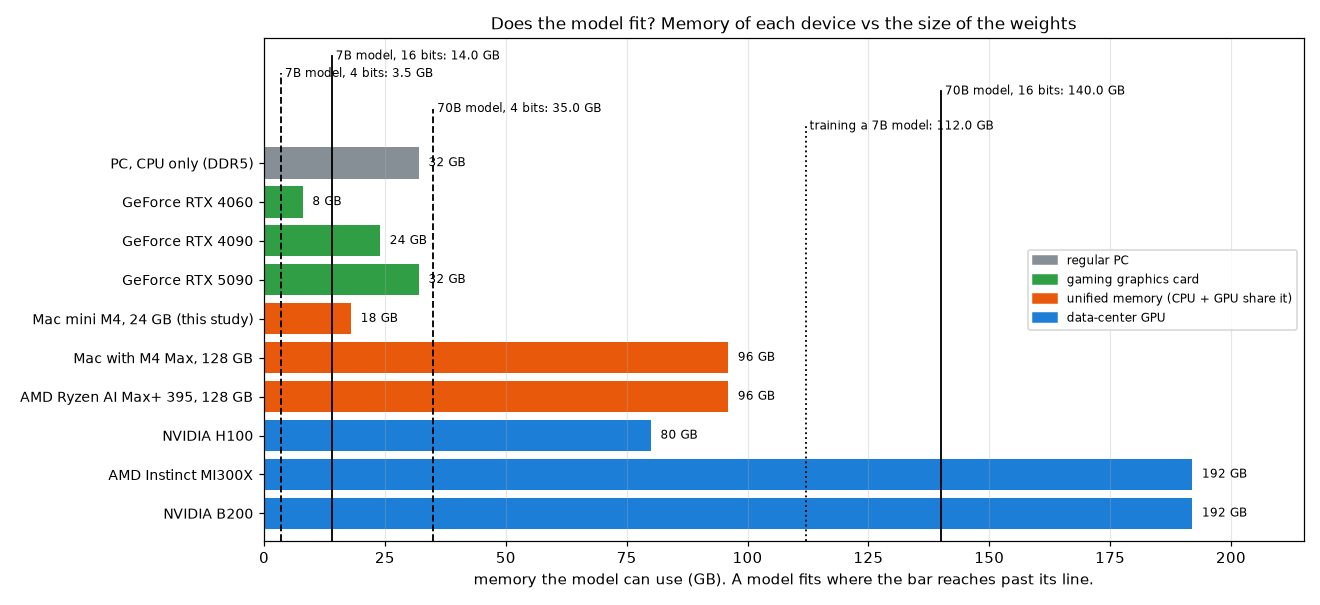
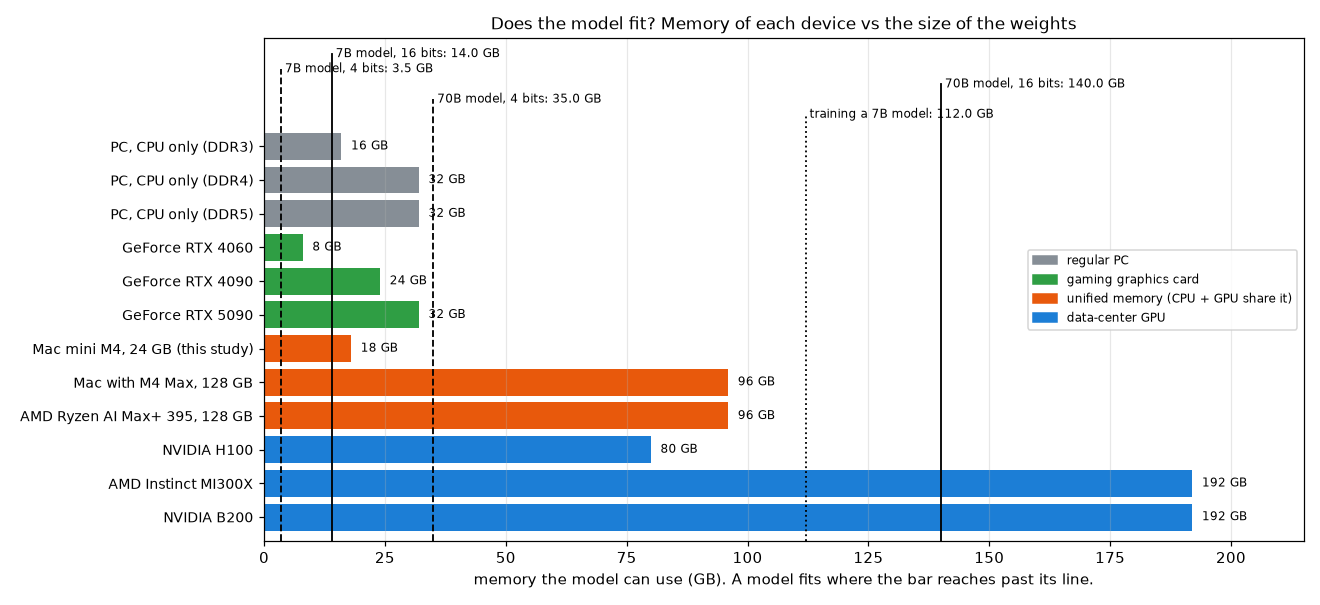
Hardware deep dive: regular PCs with DDR3 and DDR4 too

diff --git a/deep-dives/hardware/memory.py b/deep-dives/hardware/memory.py
@@ -31,6 +31,8 @@ os.makedirs(OUTPUT, exist_ok=True)
 
 # name, kind, memory the model can use (GB), memory bandwidth (GB/s). Sources: README, section 2.
 DEVICES = [
+    ("PC, CPU only (DDR3)", "pc", 16, 26),
+    ("PC, CPU only (DDR4)", "pc", 32, 51),
     ("PC, CPU only (DDR5)", "pc", 32, 90),
     ("GeForce RTX 4060", "gaming", 8, 272),
     ("GeForce RTX 4090", "gaming", 24, 1008),

diff --git a/deep-dives/hardware/README.es.md b/deep-dives/hardware/README.es.md
@@ -24,7 +24,7 @@ Esta página parte de [¿Por qué GPU?](../gpu/README.es.md). Las especificacion
 
 | Tipo | Ejemplos | Memoria que puede usar el modelo | Velocidad de la memoria | Bueno para |
 |---|---|---|---|---|
-| **PC normal, solo CPU** | Intel Core, AMD Ryzen, con RAM DDR5 | la RAM que tenga (32 GB es común) | ~80-100 GB/s | modelos pequeños, y todo lo que no sea una red grande |
+| **PC normal, solo CPU** | Intel Core, AMD Ryzen, con RAM DDR3, DDR4 o DDR5 | la RAM que tenga (8-16 GB en PC más antiguas, 32 GB es común hoy) | ~26 GB/s (DDR3) · ~51 GB/s (DDR4) · ~80-100 GB/s (DDR5) | modelos pequeños, y todo lo que no sea una red grande |
 | **Tarjeta gráfica para videojuegos** | NVIDIA GeForce RTX 4060 / 4090 / 5090, AMD Radeon | 8 / 24 / 32 GB en la tarjeta | 272 / 1 008 / 1 792 GB/s | rápida, siempre que el modelo quepa en la memoria de la tarjeta |
 | **Memoria unificada** (CPU y GPU comparten una sola reserva) | chips Apple de la serie M, AMD Ryzen AI Max | hasta ~75 % del total en una Mac, por defecto; hasta 96 GB en el Ryzen AI Max+ 395 | 120 GB/s (M4) a 546 GB/s (M4 Max); 256 GB/s (Ryzen AI Max+ 395) | modelos grandes en una sola máquina, más despacio que una tarjeta gráfica grande |
 | **GPU de centro de datos** | NVIDIA H100 / B200, AMD Instinct MI300X | 80 / 192 / 192 GB | 3 350 / 8 000 / 5 300 GB/s | entrenar y servir modelos grandes, en grupos de miles |
@@ -59,7 +59,9 @@ tokens por segundo  ≤  velocidad de la memoria  ÷  tamaño del modelo
 
 | Dispositivo | Modelo de 7B, 4 bits (3.5 GB) | Modelo de 70B, 4 bits (35 GB) |
 |---|---|---|
-| PC normal, solo CPU | 26 tokens/s como máximo | no cabe en 32 GB |
+| PC normal, solo CPU, DDR3 | 7 tokens/s como máximo | no cabe en 16 GB |
+| PC normal, solo CPU, DDR4 | 15 | no cabe en 32 GB |
+| PC normal, solo CPU, DDR5 | 26 | no cabe en 32 GB |
 | GeForce RTX 4090 | 288 | no cabe |
 | Mac mini M4 (este estudio) | 34 | no cabe |
 | Mac con M4 Max, 128 GB | 156 | 16 |
@@ -71,7 +73,7 @@ Estos son techos; las velocidades reales son menores. Las pruebas publicadas de 
 
 Por eso importa el **tipo de memoria**:
 
-- **DDR5 / LPDDR5** (RAM normal): grande y barata, pero una puerta angosta.
+- **DDR3 / DDR4 / DDR5 / LPDDR5** (RAM normal): grande y barata, pero una puerta angosta. Cada generación más o menos duplica el ancho: una PC más antigua, con DDR3, todavía ejecuta modelos pequeños, solo que más despacio (para las lecciones 1 a 5 de este estudio, cualquiera alcanza).
 - **GDDR6 / GDDR7** (tarjetas para videojuegos): soldada justo al lado del chip gráfico, con una puerta mucho más ancha, pero solo de 8 a 32 GB.
 - **HBM** (GPU de centro de datos): pilas de chips de memoria colocadas justo al lado de la GPU, conectadas por miles de cables. La puerta más ancha de todas, y muy cara.
 - **Memoria unificada** (Apple, AMD Ryzen AI Max): una sola reserva grande compartida por la CPU y la GPU, así que un modelo grande cabe, con una puerta de anchura intermedia entre las otras dos.
@@ -159,6 +161,6 @@ Las especificaciones de los dispositivos salen de estas páginas (consultadas en
 - Apple M4 (Mac mini): [especificaciones de la Mac mini de Apple](https://images.apple.com/ie/mac-mini/specs/)
 - Apple M4 Max: [MacRumors](https://macrumors.com/2024/10/30/apple-announces-m4-max-chip); límite de memoria de la GPU en macOS: [APXML](https://apxml.com/hardware/apple-m4-max-128gb)
 - AMD Ryzen AI Max+ 395: [página del producto de AMD](https://www.amd.com/en/products/processors/desktops/ryzen/ryzen-ai-halo/ryzen-ai-max-plus-395.html), [pruebas de ar-go.co](https://ar-go.co/blog/amd-ryzen-ai-max-395-local-llm/)
-- Ancho de banda de DDR5: [HotHardware](https://hothardware.com/news/ddr5-memory-spec-finalized-2tb-64gbps)
+- Ancho de banda de DDR5: [HotHardware](https://hothardware.com/news/ddr5-memory-spec-finalized-2tb-64gbps). DDR3 y DDR4: el cálculo teórico estándar para dos canales de memoria, transferencias por segundo × 8 bytes × 2 (DDR3-1600: 1600 millones × 8 × 2 ≈ 25.6 GB/s; DDR4-3200 ≈ 51.2 GB/s)
 
 **Volver a:** [la página principal del estudio](../../README.es.md)

diff --git a/deep-dives/hardware/README.pt-BR.md b/deep-dives/hardware/README.pt-BR.md
@@ -24,7 +24,7 @@ Esta página parte de [Por que GPUs?](../gpu/README.pt-BR.md). As especificaçõ
 
 | Tipo | Exemplos | Memória que o modelo pode usar | Velocidade da memória | Bom para |
 |---|---|---|---|---|
-| **PC comum, só CPU** | Intel Core, AMD Ryzen, com RAM DDR5 | a RAM que ele tiver (32 GB é comum) | ~80-100 GB/s | modelos pequenos, e tudo o que não for uma rede grande |
+| **PC comum, só CPU** | Intel Core, AMD Ryzen, com RAM DDR3, DDR4 ou DDR5 | a RAM que ele tiver (8-16 GB em PCs mais antigos, 32 GB é comum hoje) | ~26 GB/s (DDR3) · ~51 GB/s (DDR4) · ~80-100 GB/s (DDR5) | modelos pequenos, e tudo o que não for uma rede grande |
 | **Placa de vídeo de jogos** | NVIDIA GeForce RTX 4060 / 4090 / 5090, AMD Radeon | 8 / 24 / 32 GB na placa | 272 / 1.008 / 1.792 GB/s | rápida, desde que o modelo caiba na memória da placa |
 | **Memória unificada** (CPU e GPU dividem um único reservatório) | chips Apple da série M, AMD Ryzen AI Max | até ~75% do total num Mac, por padrão; até 96 GB no Ryzen AI Max+ 395 | 120 GB/s (M4) a 546 GB/s (M4 Max); 256 GB/s (Ryzen AI Max+ 395) | modelos grandes numa só máquina, mais devagar do que uma placa de vídeo grande |
 | **GPU de centro de dados** | NVIDIA H100 / B200, AMD Instinct MI300X | 80 / 192 / 192 GB | 3.350 / 8.000 / 5.300 GB/s | treinar e servir modelos grandes, em grupos de milhares |
@@ -59,7 +59,9 @@ tokens por segundo  ≤  velocidade da memória  ÷  tamanho do modelo
 
 | Aparelho | Modelo de 7B, 4 bits (3,5 GB) | Modelo de 70B, 4 bits (35 GB) |
 |---|---|---|
-| PC comum, só CPU | 26 tokens/s no máximo | não cabe em 32 GB |
+| PC comum, só CPU, DDR3 | 7 tokens/s no máximo | não cabe em 16 GB |
+| PC comum, só CPU, DDR4 | 15 | não cabe em 32 GB |
+| PC comum, só CPU, DDR5 | 26 | não cabe em 32 GB |
 | GeForce RTX 4090 | 288 | não cabe |
 | Mac mini M4 (este estudo) | 34 | não cabe |
 | Mac com M4 Max, 128 GB | 156 | 16 |
@@ -71,7 +73,7 @@ Esses são tetos; as velocidades reais são menores. Testes publicados de modelo
 
 É por isso que o **tipo de memória** importa:
 
-- **DDR5 / LPDDR5** (RAM comum): grande e barata, mas uma porta estreita.
+- **DDR3 / DDR4 / DDR5 / LPDDR5** (RAM comum): grande e barata, mas uma porta estreita. Cada geração mais ou menos dobra a largura: um PC mais antigo, com DDR3, ainda roda modelos pequenos, só que mais devagar (para as lições 1 a 5 deste estudo, qualquer uma basta).
 - **GDDR6 / GDDR7** (placas de jogos): soldada bem ao lado do chip gráfico, com uma porta muito mais larga, mas só de 8 a 32 GB.
 - **HBM** (GPUs de centro de dados): pilhas de chips de memória colocadas bem ao lado da GPU, ligadas por milhares de fios. A porta mais larga de todas, e muito cara.
 - **Memória unificada** (Apple, AMD Ryzen AI Max): um único reservatório grande dividido entre CPU e GPU, então um modelo grande cabe, com uma porta de largura intermediária entre as outras duas.
@@ -159,6 +161,6 @@ As especificações dos aparelhos vêm destas páginas (consultadas em 2026):
 - Apple M4 (Mac mini): [especificações do Mac mini na Apple](https://images.apple.com/ie/mac-mini/specs/)
 - Apple M4 Max: [MacRumors](https://macrumors.com/2024/10/30/apple-announces-m4-max-chip); limite de memória da GPU no macOS: [APXML](https://apxml.com/hardware/apple-m4-max-128gb)
 - AMD Ryzen AI Max+ 395: [página do produto na AMD](https://www.amd.com/en/products/processors/desktops/ryzen/ryzen-ai-halo/ryzen-ai-max-plus-395.html), [testes do ar-go.co](https://ar-go.co/blog/amd-ryzen-ai-max-395-local-llm/)
-- Largura de banda da DDR5: [HotHardware](https://hothardware.com/news/ddr5-memory-spec-finalized-2tb-64gbps)
+- Largura de banda da DDR5: [HotHardware](https://hothardware.com/news/ddr5-memory-spec-finalized-2tb-64gbps). DDR3 e DDR4: a conta teórica padrão para dois canais de memória, transferências por segundo × 8 bytes × 2 (DDR3-1600: 1.600 milhões × 8 × 2 ≈ 25,6 GB/s; DDR4-3200 ≈ 51,2 GB/s)
 
 **Voltar para:** [a página inicial do estudo](../../README.pt-BR.md)

diff --git a/deep-dives/hardware/README.md b/deep-dives/hardware/README.md
@@ -24,7 +24,7 @@ This page builds on [Why GPUs?](../gpu/README.md). Specs change fast; the number
 
 | Kind | Examples | Memory the model can use | Memory speed | Good for |
 |---|---|---|---|---|
-| **Regular PC, CPU only** | Intel Core, AMD Ryzen, with DDR5 RAM | whatever RAM it has (32 GB is common) | ~80-100 GB/s | small models, and anything that isn't a big network |
+| **Regular PC, CPU only** | Intel Core, AMD Ryzen, with DDR3, DDR4 or DDR5 RAM | whatever RAM it has (8-16 GB on older PCs, 32 GB is common today) | ~26 GB/s (DDR3) · ~51 GB/s (DDR4) · ~80-100 GB/s (DDR5) | small models, and anything that isn't a big network |
 | **Gaming graphics card** | NVIDIA GeForce RTX 4060 / 4090 / 5090, AMD Radeon | 8 / 24 / 32 GB on the card | 272 / 1,008 / 1,792 GB/s | fast, as long as the model fits in the card's memory |
 | **Unified memory** (CPU and GPU share one pool) | Apple M-series chips, AMD Ryzen AI Max | up to ~75% of the total on a Mac by default; up to 96 GB on the Ryzen AI Max+ 395 | 120 GB/s (M4) to 546 GB/s (M4 Max); 256 GB/s (Ryzen AI Max+ 395) | big models on one machine, more slowly than a big graphics card |
 | **Data-center GPU** | NVIDIA H100 / B200, AMD Instinct MI300X | 80 / 192 / 192 GB | 3,350 / 8,000 / 5,300 GB/s | training and serving big models, in groups of thousands |
@@ -59,7 +59,9 @@ tokens per second  ≤  memory speed  ÷  model size
 
 | Device | 7B model, 4 bits (3.5 GB) | 70B model, 4 bits (35 GB) |
 |---|---|---|
-| Regular PC, CPU only | 26 tokens/s at most | doesn't fit in 32 GB |
+| Regular PC, CPU only, DDR3 | 7 tokens/s at most | doesn't fit in 16 GB |
+| Regular PC, CPU only, DDR4 | 15 | doesn't fit in 32 GB |
+| Regular PC, CPU only, DDR5 | 26 | doesn't fit in 32 GB |
 | GeForce RTX 4090 | 288 | doesn't fit |
 | Mac mini M4 (this study) | 34 | doesn't fit |
 | Mac with M4 Max, 128 GB | 156 | 16 |
@@ -71,7 +73,7 @@ These are ceilings; real speeds are lower. Published tests of 70B models in 4 bi
 
 This is why the **kind of memory** matters:
 
-- **DDR5 / LPDDR5** (regular RAM): large and cheap, but a narrow door.
+- **DDR3 / DDR4 / DDR5 / LPDDR5** (regular RAM): large and cheap, but a narrow door. Each generation roughly doubles the width: an older PC with DDR3 still runs small models, just more slowly (for this study's lessons 1-5, any of them is plenty).
 - **GDDR6 / GDDR7** (gaming cards): soldered right next to the graphics chip, with a much wider door, but only 8 to 32 GB.
 - **HBM** (data-center GPUs): stacks of memory chips placed right next to the GPU, connected by thousands of wires. The widest door of all, and very expensive.
 - **Unified memory** (Apple, AMD Ryzen AI Max): one big pool shared by CPU and GPU, so a big model fits, with a door in between the other two.
@@ -159,6 +161,6 @@ The device specs come from these pages (consulted in 2026):
 - Apple M4 (Mac mini): [Apple's Mac mini specs](https://images.apple.com/ie/mac-mini/specs/)
 - Apple M4 Max: [MacRumors](https://macrumors.com/2024/10/30/apple-announces-m4-max-chip); macOS GPU memory limit: [APXML](https://apxml.com/hardware/apple-m4-max-128gb)
 - AMD Ryzen AI Max+ 395: [AMD product page](https://www.amd.com/en/products/processors/desktops/ryzen/ryzen-ai-halo/ryzen-ai-max-plus-395.html), [ar-go.co tests](https://ar-go.co/blog/amd-ryzen-ai-max-395-local-llm/)
-- DDR5 bandwidth: [HotHardware](https://hothardware.com/news/ddr5-memory-spec-finalized-2tb-64gbps)
+- DDR5 bandwidth: [HotHardware](https://hothardware.com/news/ddr5-memory-spec-finalized-2tb-64gbps). DDR3 and DDR4: the standard theoretical calculation for two memory channels, transfers per second × 8 bytes × 2 (DDR3-1600: 1,600 million × 8 × 2 ≈ 25.6 GB/s; DDR4-3200 ≈ 51.2 GB/s)
 
 **Back to:** [the study home](../../README.md)
